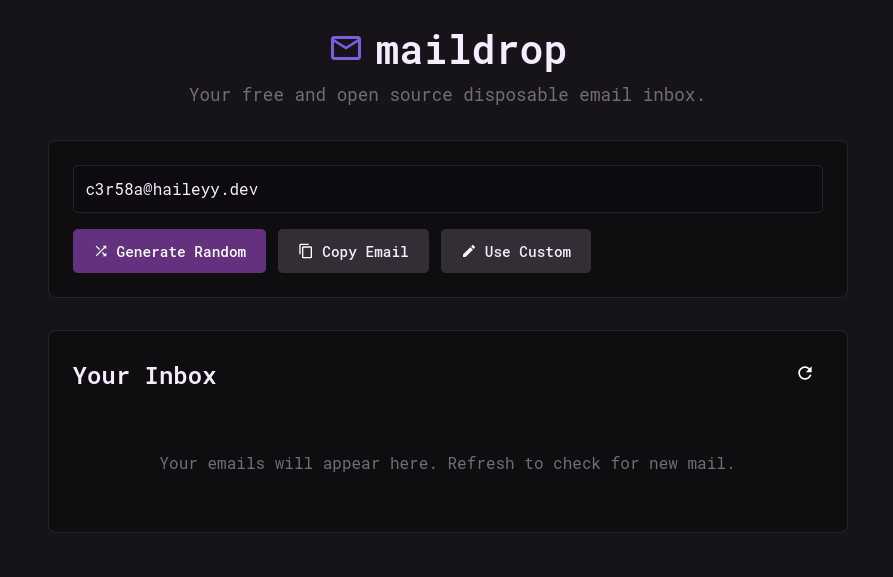
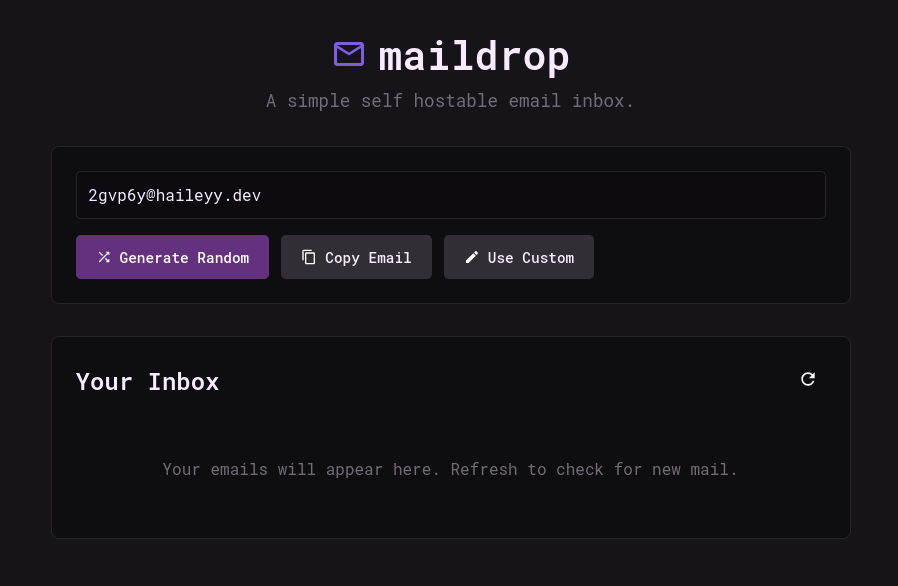
change tagline

diff --git a/src/frontend/templates/index.html b/src/frontend/templates/index.html
@@ -20,7 +20,7 @@
                 <img src="{{ url_for('static', filename='resources/mail-icon.svg') }}" alt="Mail Icon">
                 maildrop
             </h1>
-            <p>Your free and open source disposable email inbox.</p>
+            <p>A simple self hostable email inbox.</p>
         </header>
         <section class="email-panel">
             <div class="email-display">

diff --git a/README.md b/README.md
@@ -3,7 +3,7 @@
     Maildrop
 </h1>
 
-*Your free and open source disposable email inbox.*
+*A simple self hostable email inbox*
 
 ![App Screenshot](pictures/app.png)
 
@@ -22,10 +22,11 @@
 
 ## About The Project
 
-Maildrop is a self hostable and easy to use disposable email service that allows you to receive emails on a random email address on your domain.  
+Maildrop is a self hostable and easy to use email service that allows you to receive emails on any address on your domain.  
 
-Maildrop is perfect for:
-- Signing up for services without revealing your email address.
+It is perfect for:
+- People who want to easily use multiple email addresses.
+- Signing up for services without without using your main email address.
 - Easily creating multiple accounts on websites.
 
 ### Features
